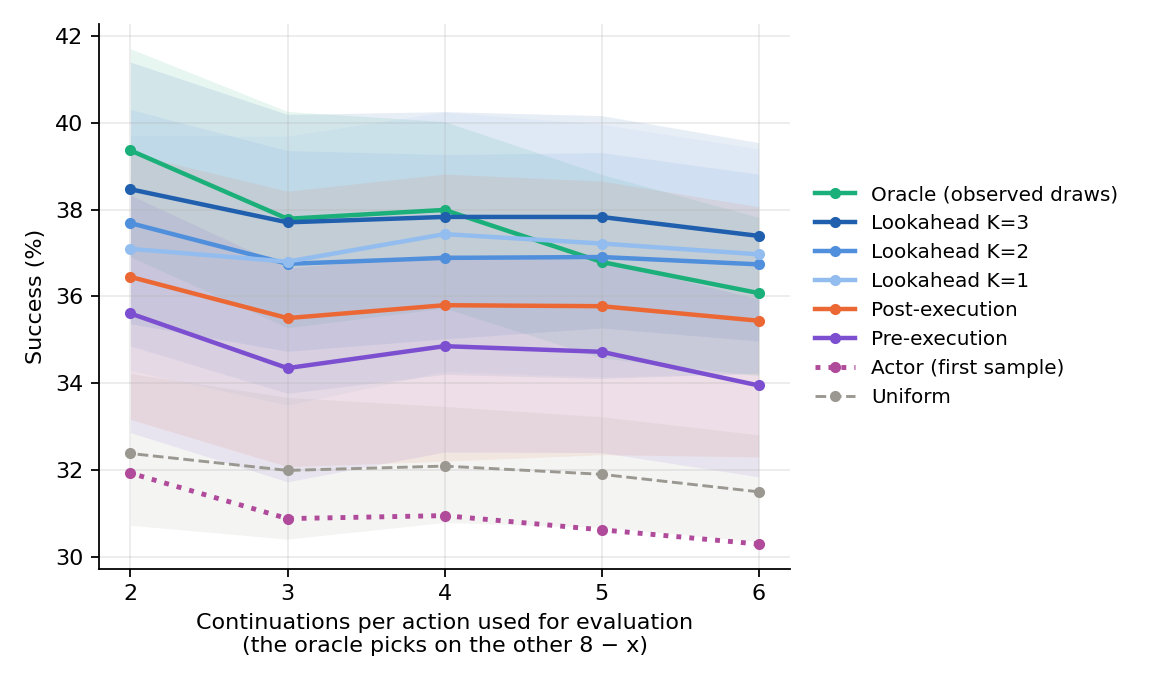
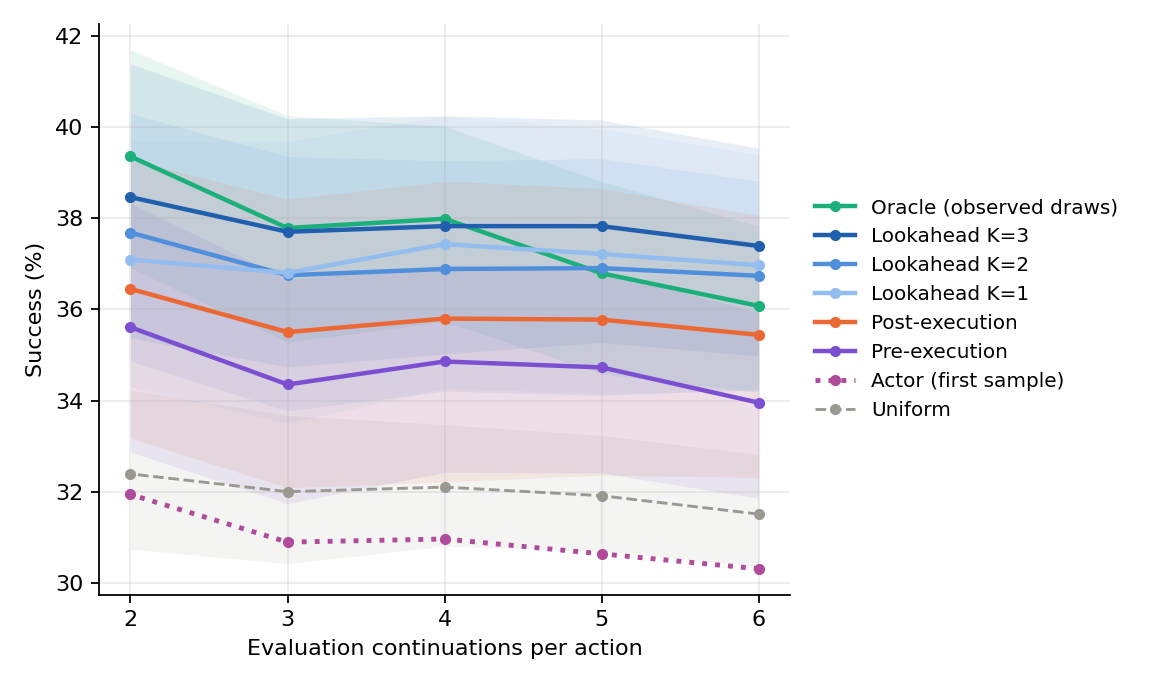
Lookahead draw-split figures: shorter x-axis label (details in the caption)

diff --git a/openwebrl/docs/arm_results/rl_integration/lookahead-draw-split-20261013/plot_piotr_single.py b/openwebrl/docs/arm_results/rl_integration/lookahead-draw-split-20261013/plot_piotr_single.py
@@ -36,7 +36,7 @@ for kind in ("gain", "absolute", "absolute_lines"):           # absolute_lines: 
         if kind != "absolute_lines":
             ax.fill_between(xs, [b + x[1] for b, x in zip(base, d)], [b + x[2] for b, x in zip(base, d)],
                             color=color, alpha=.10, lw=0)
-    ax.set_xticks(sorted(xs)); ax.set_xlabel("Continuations per action used for evaluation\n(the oracle picks on the other 8 − x)")
+    ax.set_xticks(sorted(xs)); ax.set_xlabel("Evaluation continuations per action")
     ax.grid(alpha=.25)
     if kind == "absolute_lines":                                # whole-number frame, so the 40% gridline shows
         lo, hi = ax.get_ylim()
